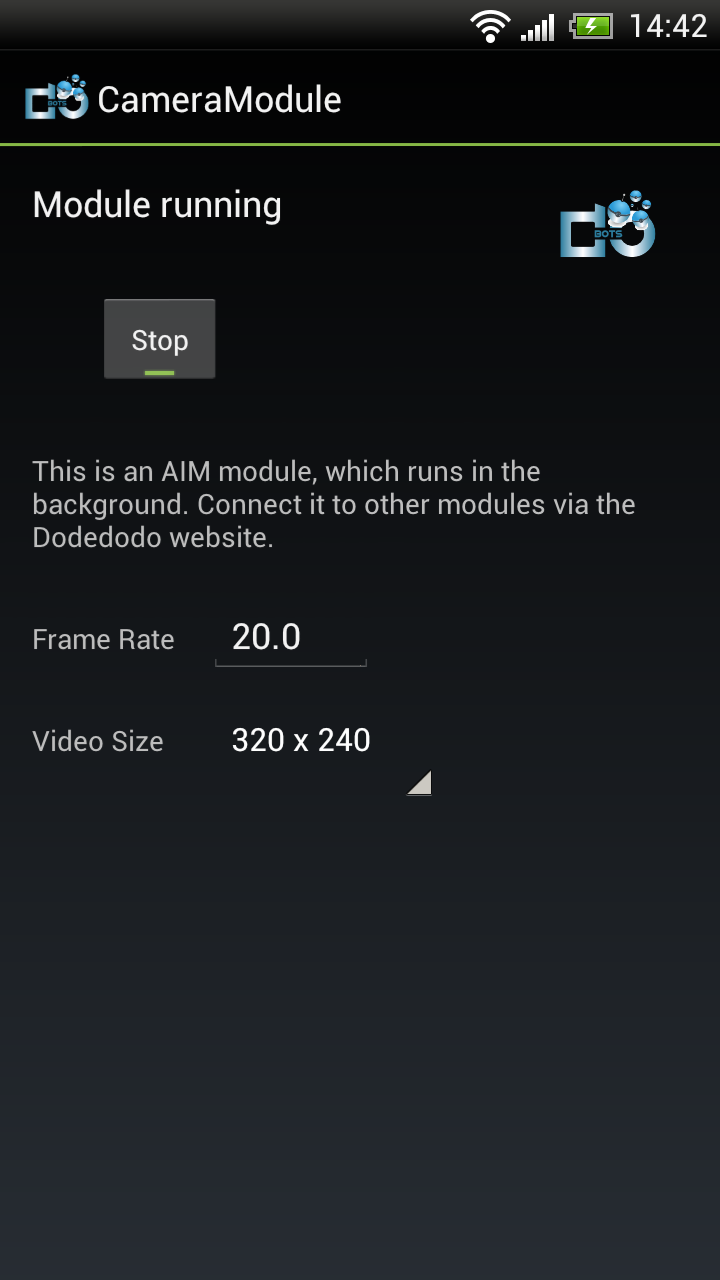
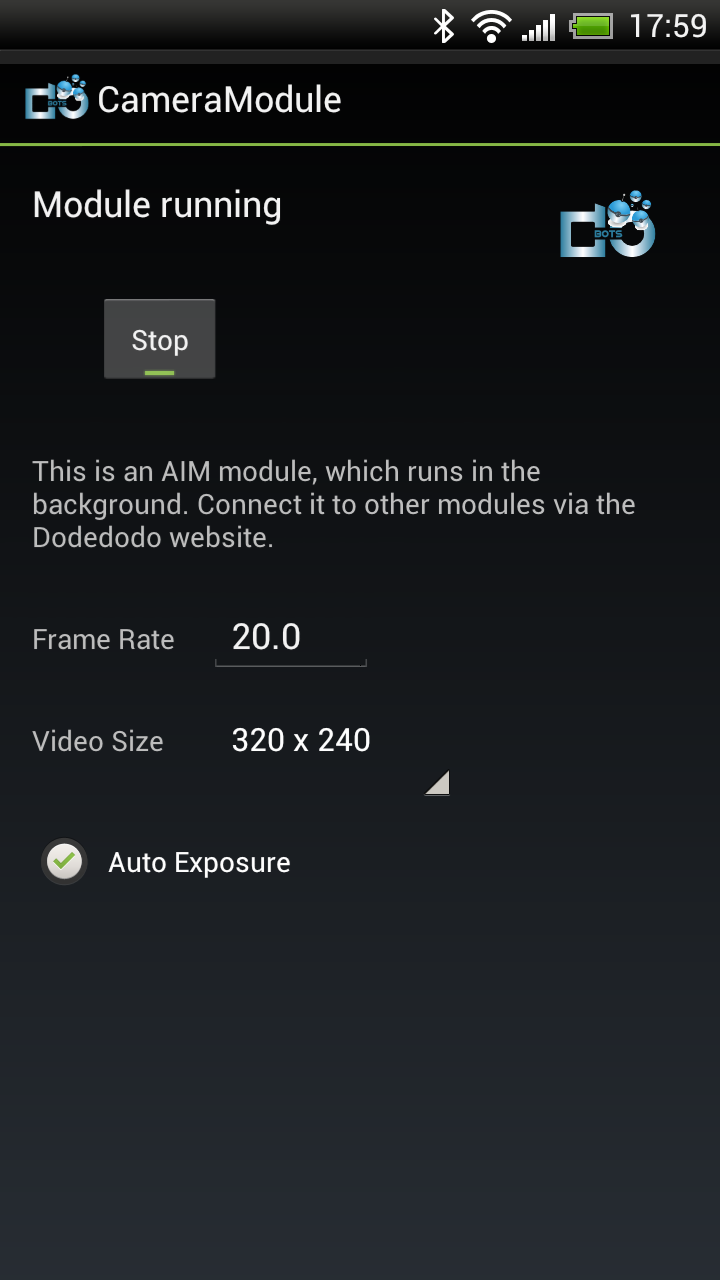
CameraModule update

diff --git a/CameraModule/src/org/dobots/cameramodule/CameraModule.java b/CameraModule/src/org/dobots/cameramodule/CameraModule.java
@@ -115,8 +115,12 @@ public class CameraModule extends SimpleAimServiceUI {
 			spPreviewSizes.setAdapter(adapter);
 			Utils.setSpinnerSelectionWithoutCallingListener(spPreviewSizes, selection);
 			
-			mAutoExposureEnabled = mCamera.isAutoExposureEnabled();
-			cbAutoExposure.setChecked(mAutoExposureEnabled);
+			if (mCamera.isAutoExposureSupported()) {
+				mAutoExposureEnabled = mCamera.isAutoExposureEnabled();
+				cbAutoExposure.setChecked(mAutoExposureEnabled);
+			} else {
+				cbAutoExposure.setVisibility(View.GONE);
+			}
 		}
 	};
 

diff --git a/CameraModule/src/org/dobots/cameramodule/CameraService.java b/CameraModule/src/org/dobots/cameramodule/CameraService.java
@@ -169,6 +169,10 @@ public class CameraService extends AimService implements IRawVideoListener {
 		adjustSettings();
 	}
 	
+	public boolean isAutoExposureSupported() {
+		return mCameraPreview.isAutoExposureLockSupported();
+	}
+	
 	public boolean isAutoExposureEnabled() {
 		return mCameraPreview.isAutoExposureEnabled();
 	}
